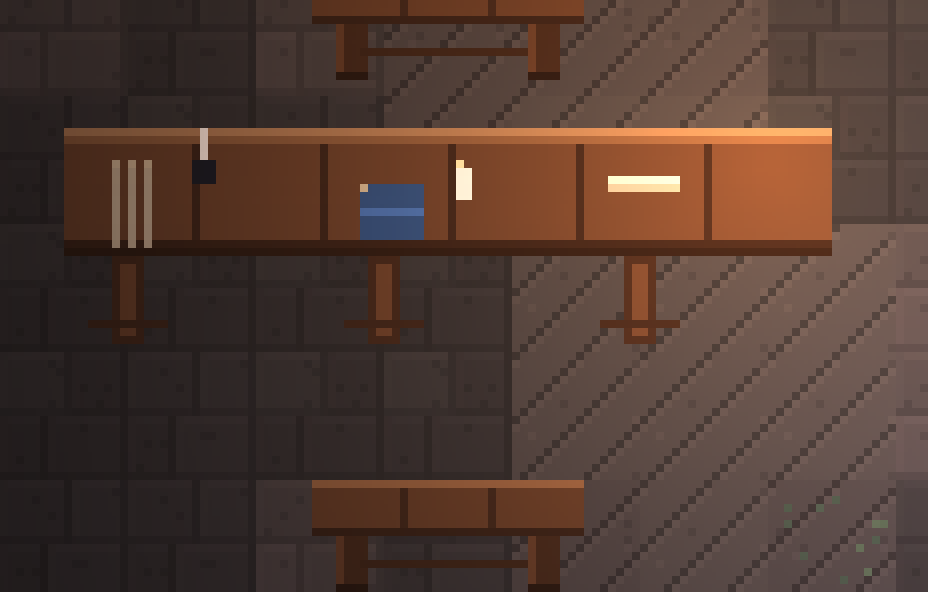
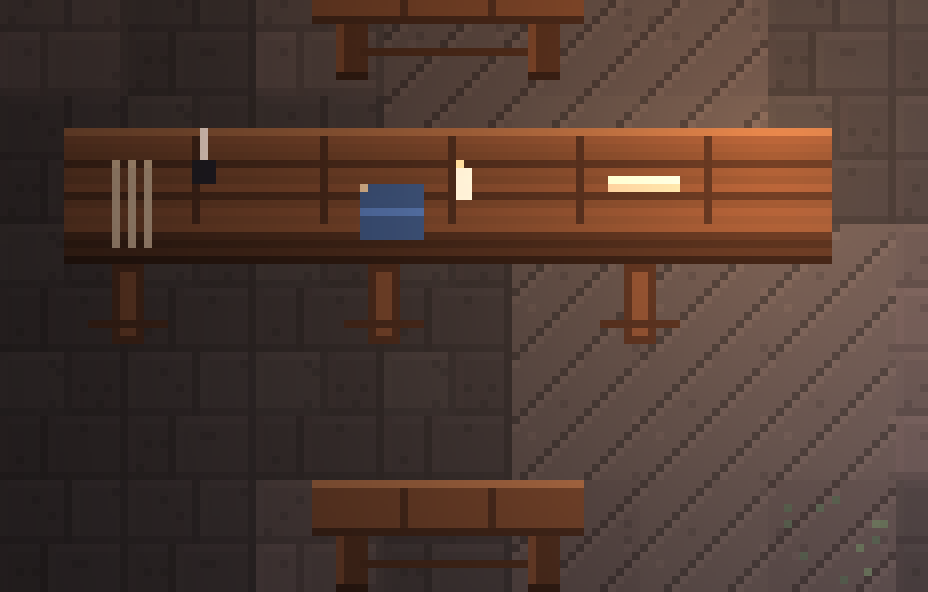
docs(archive-audition): Candidate B delivery report — concept, evidence, limitations, files

Changed region(s): [[0.0625, 0.2128, 0.9062, 0.4561]]

diff --git a/docs/design-audition/ARCHIVE_AUDITION_REPORT.md b/docs/design-audition/ARCHIVE_AUDITION_REPORT.md
@@ -1,0 +1,174 @@
+# Environment Art Audition — Candidate B: "The Monastic Archive"
+
+One room, playable in Godot 4.7: the entrance to a damaged underground archive of a
+monastic house. Everything visible in the room — tiles, props, wall caps, niche
+reliefs, lighting sprite — is original art authored for this audition by
+`art_src/author_archive_art.py`. No third-party sprites are used, so there is no
+licence question to document: provenance is this repository.
+
+Pass criteria this report answers to: no text anywhere in the build; the room must
+read as a place for storing, protecting and studying manuscripts from the art alone.
+
+---
+
+## Concept
+
+A scriptorium ante-room that has just been abandoned in a hurry. Records were carried
+*out* through the door in the south wall; the move was interrupted by a collapse
+that buried the doorway in rubble and opened a seep of water across the south-east
+floor. What the player walks into is therefore an archive in the middle of being
+evacuated and damaged at the same time: rows of writing tables still carrying open
+manuscripts, a lectern left chained, stools knocked over, a scroll trail heading for
+the exit — and, at the far end, one cabinet that was never emptied.
+
+The room is a single hall, 50 × 30 cells (800 × 480 px), reached through the doorway
+at the south and read along a diagonal quarry aisle that runs from the door to the
+open cabinet on the north wall. Two rows of piers turn the hall into a vaulted
+undercroft and break the floor into bays, so the player has left/right space as well
+as depth.
+
+**Why this is an archive, without a single word.** The north wall is a continuous
+press bank: closed cupboards, a partial shelf, a drying rack for quires, an open
+armarium with its leaves standing outside the carcass and three rows of rolled
+records and bound codices inside. Both side walls carry blind arcading whose niches
+hold scrolls, codices or nothing at all — a wall built to hold records, not to look
+decorative. The furniture is writing furniture: long boards on trestles, benches,
+a lectern with an ink horn, a paternoster, stools.
+
+## Key visual decisions
+
+- **The destination is lit, the hall is not.** Two candle lights flank the open
+  armarium and blow the wall behind it warm; the rest of the room is carried by
+  sconce pools and the Knight's own vision light. The warm cabinet at the end of a
+  cold hall is the composition's job — it pulls the player north.
+- **Under-croft, not a low shed.** Two rows of six round piers (rows 9 and 22) plus
+  four wall bays give the hall a vault's rhythm without drawing a ceiling, which the
+  camera never sees. Piers are solid, so they are also traversal furniture.
+- **Stone reads as stone.** Wall caps are kept deliberately darker than any lit
+  floor, and floor bevel contrast was lowered, so masonry never reads as floor and
+  the floor never reads as a lit wall top.
+- **Blind arcading instead of decoration.** Niches are a tile family
+  (`face_niche_scrolls`, `_codices`, `_empty`, `_broken`) inset into the wall faces;
+  each side wall gets a run of them, the east wall run breaks at the collapse.
+  Nothing in the room imitates shelving with a hole in a wall — the shelves are
+  actual cabinets with doors, plinths, cornices and shelf boards.
+- **Contact and thickness everywhere.** Every prop is anchored by its standing cell
+  (bottom-centre), so nothing floats into the wall band; the validator asserts floor
+  contact for each one. Tables read as a top surface plus a five-pixel front edge
+  rather than a slab; the open cabinet stands on a plinth.
+- **Water is a seep, not a puddle decal.** The waterline is ragged per column rather
+  than tile-aligned, its ramp is pulled towards the stone (saturated blue reads as
+  spilled paint at gameplay zoom), and its north edge carries the cold breach light.
+- **Damage tells one story.** The south doorway is half-buried by rubble coming down
+  from the east; a fallen beam lies across the floor next to it; the east wall's run
+  of niches ends in a broken one; the far east shelf is collapsed; the scroll trail
+  runs from the tables towards the exit, not away from it.
+
+## Implementation
+
+| Piece | File |
+| --- | --- |
+| Original art generator (40 tiles, 34 props, wall caps, lights) | `art_src/author_archive_art.py` |
+| Room layout author, emits `room.json` + PIL previews | `art_src/room_author.py` |
+| Layout validator (wall ring, floor contact, footprints, route, cameras) | `art_src/validate_room.py` |
+| Godot room scene, builds everything from `room.json` at runtime | `scene/archive_room.gd` |
+| Native capture harness | `scene/capture_archive_room.gd` |
+| 4× nearest-neighbour detail crops | `art_src/make_detail_crops.py` |
+| Focused render gate | `.github/workflows/archive-room-capture.yml` |
+
+`room.json` carries resolved atlas coordinates for every layer cell and every prop
+source rect, so the Python preview renderer and the Godot scene draw the same data.
+Nothing in the layout is duplicated by hand between tools, which is why the preview
+and the runtime captures agree.
+
+In Godot the room is a set of `TileMapLayer`s sharing one `TileSet` (floor, floor
+decals, water, wall faces, wall caps), a `YSort` container for props and wall mounts,
+merged static-body rectangles for the wall ring, per-prop colliders, `CanvasModulate`
+ambient and 19 `PointLight2D` lamps. The Knight is the shipping
+`res://game/characters/knight/knight.tscn` — same sprite, 12 × 16 collider, 96 px/s
+camera — with the camera limits set to the room. There is no bespoke player code.
+
+## Evidence
+
+All frames are raw `1280×720` viewport captures from the game running at the
+project's own 640 × 360 viewport, i.e. exact 2× of gameplay. No compositing, no
+annotation, no scaling.
+
+| File | What it shows |
+| --- | --- |
+| `captures/archive_room_arrival.png` | first impression on the threshold, camera clamped to the room |
+| `captures/archive_room_entry.png` | main architectural feature and the story: lit cabinet, press bank, tables, doorway behind |
+| `captures/archive_room_mid.png` | east study corner: desks, collapsed shelf, rubble, water, wall arcading |
+| `captures/archive_room_end.png` | the destination up close: open armarium, flanking lights, piers |
+| `captures/archive_room_walk.png` | after walking north from the spawn under the room's own collision |
+| `captures/archive_room_overview.png` | the whole room, one frame |
+| `captures/detail_armarium.png` | 4×: cabinet carcass, leaves, shelf rows, manuscript rows |
+| `captures/detail_doorway.png` | 4×: voussoir arch, jambs, leaf, threshold, wall join |
+| `captures/detail_breach.png` | 4×: rubble pile, fallen beam, waterline, niche run |
+| `captures/detail_study.png` | 4×: long board, front edge, objects, bench |
+
+Verification actually run (workflow `Archive Room — Godot 4.7 render`, run
+`39943558642`, success):
+
+1. Regenerating all art and `room.json` in CI reproduces the committed files
+   byte-for-byte (`git diff --exit-code`).
+2. `validate_room.py` → **PASSED**, 16 warnings, **0 unreachable floor cells**.
+   Warnings are shared-tile soft overlaps (a bench standing under a table's end, a
+   column among rubble) — deliberate arrangements, not gaps.
+3. `scene/archive_room.gd` parses clean under `godot --check-only` (the log is
+   published beside the frames), and the capture harness itself runs to completion
+   inside Godot 4.7.
+4. The capture harness renders six frames and asserts each is exactly 1280 × 720.
+5. The walk test moves the Knight with `move_up` held for 150 physics frames under
+   real collision and logs `(448.0, 372.0) → (448.0, 256.076)`, 115.9 px north,
+   stopping against a table. That is the traversal claim, measured.
+
+Frames land in `captures/`; the CI logs that produced them are in `captures/logs/`.
+
+## Remaining limitations
+
+- **The room is wider than one camera frame.** 50 cells against a 40-cell view is a
+  deliberate choice (it gives the hall left/right exploration), but it means no
+  single gameplay frame shows the whole architecture. The `overview` frame and
+  `art/room_preview.png` are the whole-room references; the gameplay frames are
+  honest fragments.
+- **Entry framing favours the hall.** From the threshold the camera clamps to the
+  room and the shelf bank sits just above the frame; the cabinet is visible as a
+  warm glow, the presses only at the edges. The archive read is complete one step
+  further in (`entry` and `end`), not on the very first frame.
+- **The water is dark.** At ambient levels this low, the pool reads as wet, cold
+  stone more than as standing water unless the breach light reaches it. It is a
+  deliberate trade against the "blue paint" problem, not a finished treatment.
+- **Lighting is runtime, not painted.** The Godot frames are lit by `PointLight2D`
+  over an ambient tint; the Python previews bake their own light. Both use the same
+  light list, but they are not pixel-identical, and the Godot result depends on the
+  renderer (Compatibility used here).
+- **The east quarter is sparse on purpose** (collapsed storage) but a player looking
+  for a landmark there will find only rubble and one fallen shelf.
+- **No audio, no interaction, no entity hooks.** This is a visual prototype; the
+  room has collision and a camera, nothing to press.
+
+## Files changed
+
+New, all under `prototypes/environment_art/archive_audition/` unless noted:
+
+```
+.github/workflows/archive-room-capture.yml            focused render gate
+prototypes/environment_art/archive_audition/
+  README_RUN.md                                       how to author and render
+  room.json                                           emitted layout (no hand edits)
+  art/archive_tiles.png  art/wall_caps.png  art/props.png  art/light_radial.png
+  art/tiles.json  art/props.json                      atlas frame tables
+  art/room_preview.png  art/room_preview_entry.png    whole-room PIL previews
+  art_src/author_archive_art.py                       original art generator
+  art_src/room_author.py                              layout author
+  art_src/validate_room.py                            layout validator
+  art_src/make_detail_crops.py                        4x crop script
+  scene/archive_room.tscn   scene/archive_room.gd     the playable room
+  scene/capture_archive_room.tscn / .gd               native capture harness
+  captures/archive_room_{arrival,entry,mid,end,walk,overview}.png   1280x720
+  captures/detail_{armarium,doorway,breach,study}.png               4x crops
+  captures/logs/*.txt                                 run logs
+```
+
+No existing campaign level, gameplay system, shared scene or test was modified.
